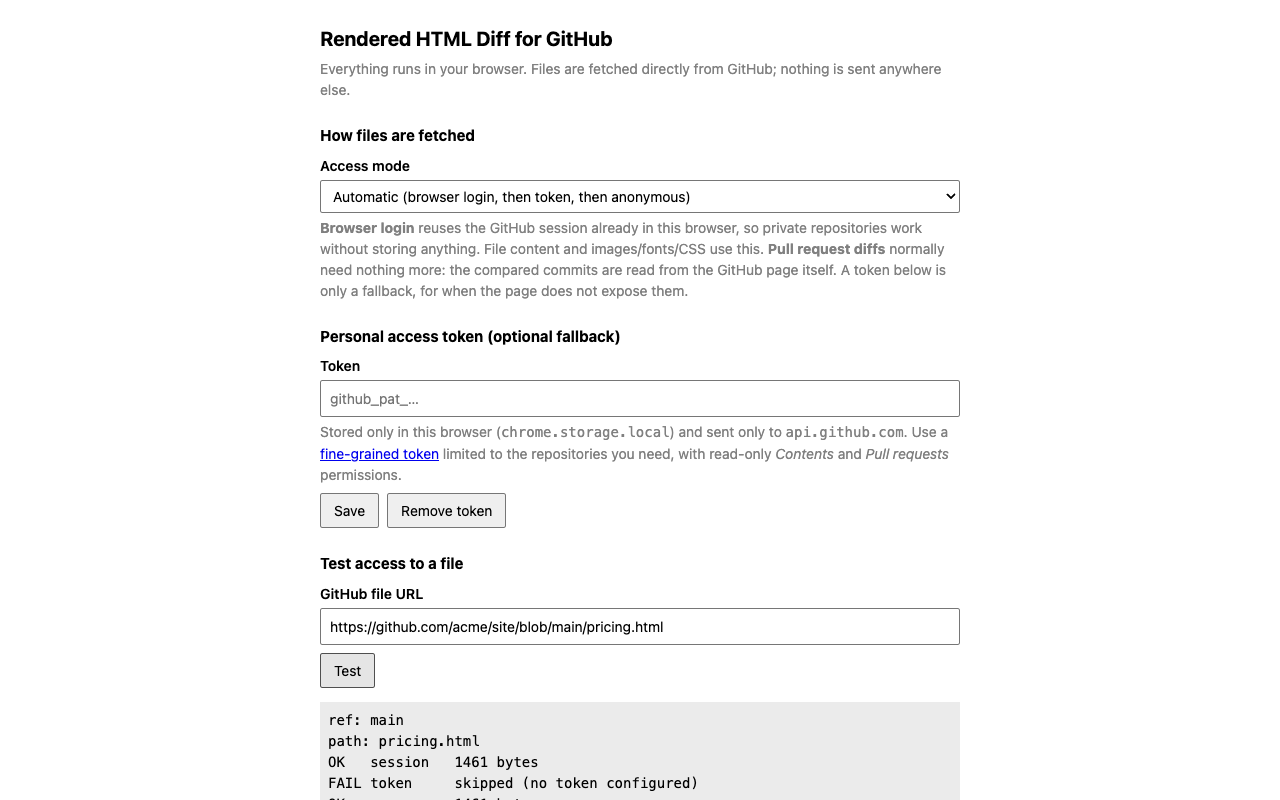
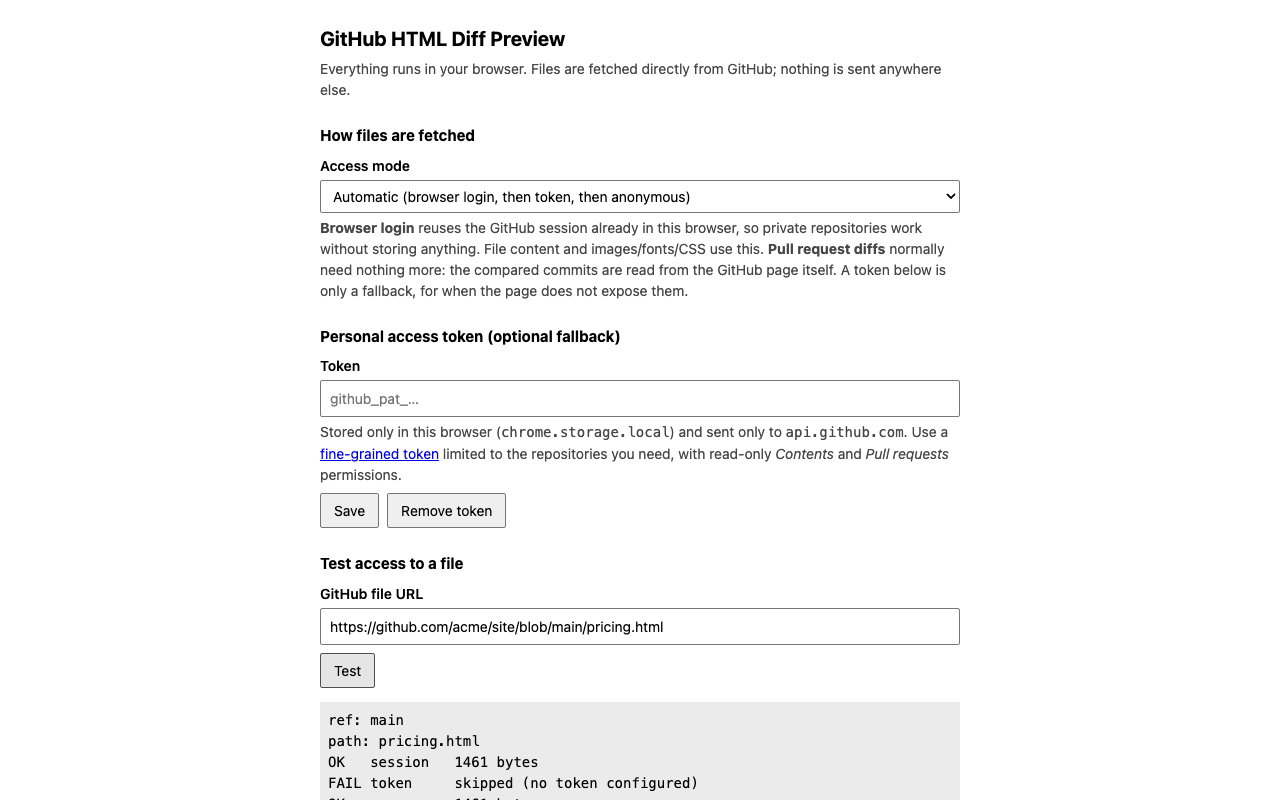
Rename the project to github-html-diff-preview / GitHub HTML Diff Preview
Repository slug, package name, zip names, Firefox add-on id and all links
use github-html-diff-preview; the extension's display name is now
"GitHub HTML Diff Preview" (short name "HTML Diff Preview"). Store listing
notes now cover the name's proximity to existing "GitHub HTML Preview"
listings and the leading "GitHub", with fallback names. Store images and the
compiled issue-helper workflow are regenerated.

diff --git a/static/options/options.html b/static/options/options.html
@@ -3,12 +3,12 @@
 <head>
     <meta charset="utf-8">
     <meta name="viewport" content="width=device-width, initial-scale=1">
-    <title>Rendered HTML Diff for GitHub - Options</title>
+    <title>GitHub HTML Diff Preview - Options</title>
     <link rel="stylesheet" href="options.css">
 </head>
 <body>
     <main>
-        <h1>Rendered HTML Diff for GitHub</h1>
+        <h1>GitHub HTML Diff Preview</h1>
         <p class="lead">Everything runs in your browser. Files are fetched directly from GitHub; nothing is sent anywhere else.</p>
 
         <section>

diff --git a/store/LISTING.md b/store/LISTING.md
@@ -4,9 +4,11 @@ Everything below is ready to paste. Nothing here has been submitted anywhere.
 
 ## Name
 
-**Rendered HTML Diff for GitHub**  (store display name; repository: `github-html-preview`)
+**GitHub HTML Diff Preview**  (store display name; repository: `github-html-diff-preview`)
 
-Why this name: three Chrome Web Store listings already use "GitHub HTML Preview"-style names (dohyeon5626's "Github Html Preview", bauerautomate's "GitHub HTML Preview", thejjw's "GitHub Local HTML Preview"). This name leads with what is unique here, the rendered diff, and "for GitHub" is a descriptive reference (nominative use), not a claim of affiliation. The listing says so explicitly (see disclaimer below). Alternative if the store objects to "GitHub" in the title: **Rendered HTML Diff & Preview** (mention GitHub only in the summary and description).
+Things to weigh before submitting:
+- Three Chrome Web Store listings already use "GitHub HTML Preview"-style names (dohyeon5626's "Github Html Preview", bauerautomate's "GitHub HTML Preview", thejjw's "GitHub Local HTML Preview"). "Diff" is the distinguishing word, so the listing and screenshots should lead with the rendered diff, and the icon and branding are unrelated to those listings.
+- The name begins with "GitHub". The listing carries a non-affiliation disclaimer (see Description). GitHub's brand guidelines and the Chrome Web Store's impersonation policy both discourage product names that imply an official GitHub product; if a reviewer objects, use **HTML Diff Preview for GitHub** (nominative "for GitHub") or **Rendered HTML Diff & Preview**.
 
 ## Summary (max 132 characters)
 
@@ -20,7 +22,7 @@ Developer Tools. Language: English.
 
 ## Description
 
-> Rendered HTML Diff for GitHub shows you what an HTML file actually looks like, right from GitHub, and what a pull request changed in the rendered page, not just in the source.
+> GitHub HTML Diff Preview shows you what an HTML file actually looks like, right from GitHub, and what a pull request changed in the rendered page, not just in the source.
 >
 > **Preview any HTML file**
 > • A Preview button next to "Raw" on .html and .htm files, plus a right-click menu entry and a keyboard shortcut (Alt+Shift+P).
@@ -37,7 +39,7 @@ Developer Tools. Language: English.
 > • Private repositories work through the GitHub login already in your browser; nothing needs to be stored. An optional fine-grained token, kept only on your device, is a fallback if GitHub's page ever stops exposing what the diff needs.
 > • Previewed pages are untrusted, so they render in a sandboxed frame with scripts off. An explicit "Run scripts (untrusted)" switch for single files is available if you want it.
 >
-> Open source (MIT): https://github.com/kaovilai/github-html-preview
+> Open source (MIT): https://github.com/kaovilai/github-html-diff-preview
 >
 > Not affiliated with, endorsed by, or sponsored by GitHub, Inc. "GitHub" is a trademark of GitHub, Inc., used here only to describe what the extension works with.
 
@@ -63,7 +65,7 @@ Developer Tools. Language: English.
 Check only: **Authentication information** (the optional personal access token the user enters; stored locally, sent only to api.github.com). Everything else unchecked. (The page-derived commit hashes, repository names and file paths are processed locally and sent only to GitHub as part of the requests for the files the user asked to preview.)
 Certify: not sold or transferred to third parties; not used for purposes unrelated to the single purpose; not used for creditworthiness/lending.
 
-Privacy policy URL: `https://github.com/kaovilai/github-html-preview/blob/main/PRIVACY.md`
+Privacy policy URL: `https://github.com/kaovilai/github-html-diff-preview/blob/main/PRIVACY.md`
 
 ## Notes for reviewers / test instructions
 
@@ -90,4 +92,4 @@ The screenshots show a made-up "Acme Cloud" page, not third-party content, rende
 
 ## Packages
 
-`npm run zip` writes reproducible `dist/github-html-preview-chrome-<version>.zip` and `dist/github-html-preview-firefox-<version>.zip`. `npm run source-zip` writes the source archive that AMO asks for.
+`npm run zip` writes reproducible `dist/github-html-diff-preview-chrome-<version>.zip` and `dist/github-html-diff-preview-firefox-<version>.zip`. `npm run source-zip` writes the source archive that AMO asks for.

diff --git a/store/PUBLISHING.md b/store/PUBLISHING.md
@@ -22,7 +22,7 @@ Console: https://chrome.google.com/webstore/devconsole
 | Contact email | Must be verified from the Account page. |
 | Trader status | EU consumer-law declaration. A free, open-source extension from an individual is normally declared **non-trader**; the other listings found during research did the same. |
 | New-publisher limit | New publishers can have at most two published extensions until they request an increase. |
-| Upload | `dist/github-html-preview-chrome-<version>.zip` (Add new item, Choose file). |
+| Upload | `dist/github-html-diff-preview-chrome-<version>.zip` (Add new item, Choose file). |
 | Listing / Privacy | Paste from `store/LISTING.md`; upload `store/generated/*.png` (screenshots 1280x800, small promo 440x280). |
 | Review time | Usually a few days, up to a few weeks; new developers, new extensions and host permissions get a closer look. After approval you have 30 days to publish if you choose deferred publishing. |
 | Cost | Registration fee only. |
@@ -46,9 +46,9 @@ Console: Partner Center, https://partner.microsoft.com/dashboard/microsoftedge/o
 Console: https://addons.mozilla.org/developers/
 
 - Free Mozilla account; no fee. Choose "On this site" for a listed add-on (or "On your own" for a signed self-hosted `.xpi`).
-- Upload `dist/github-html-preview-firefox-<version>.zip`.
+- Upload `dist/github-html-diff-preview-firefox-<version>.zip`.
 - **Source code upload is required** because the extension is bundled with esbuild: attach `npm run source-zip` output and these build instructions: *Node.js 22+, `npm ci`, `npm run build:firefox`; the output is `dist/firefox`.*
-- The Firefox manifest already carries an add-on ID (`github-html-preview@kaovilai.github.io`) and the required data-collection declaration (`none`); `web-ext lint` reports zero warnings.
+- The Firefox manifest already carries an add-on ID (`github-html-diff-preview@kaovilai.github.io`) and the required data-collection declaration (`none`); `web-ext lint` reports zero warnings.
 - Not yet covered by automated browser tests; do a manual pass (`about:debugging`, Load Temporary Add-on) on a public file and a public PR before submitting. The scripts toggle is absent in Firefox by design.
 - Review is partly automated and usually quick for listed add-ons, but can take longer when manual review is triggered.
 

diff --git a/PRIVACY.md b/PRIVACY.md
@@ -1,6 +1,6 @@
 # Privacy policy
 
-*Rendered HTML Diff for GitHub* ("the extension") runs entirely in your browser. There is no server operated by the extension's author.
+*GitHub HTML Diff Preview* ("the extension") runs entirely in your browser. There is no server operated by the extension's author.
 
 ## What the extension does with data
 
@@ -22,6 +22,6 @@ Previews render untrusted repository HTML in a sandboxed frame with scripts disa
 
 ## Contact
 
-Questions or concerns: open an issue at https://github.com/kaovilai/github-html-preview/issues.
+Questions or concerns: open an issue at https://github.com/kaovilai/github-html-diff-preview/issues.
 
 *Last updated: 2026-10-16.*

diff --git a/README.md b/README.md
@@ -1,4 +1,4 @@
-# Rendered HTML Diff for GitHub
+# GitHub HTML Diff Preview
 
 A browser extension that previews HTML files on GitHub and shows **rendered before/after diffs of HTML files in pull requests**, entirely locally.
 
@@ -32,8 +32,8 @@ A browser extension that previews HTML files on GitHub and shows **rendered befo
 Not yet published to any store. To try it:
 
 ```sh
-git clone https://github.com/kaovilai/github-html-preview.git
-cd github-html-preview
+git clone https://github.com/kaovilai/github-html-diff-preview.git
+cd github-html-diff-preview
 npm ci
 npm run build
 ```

diff --git a/.github/workflows/issue-responder.md b/.github/workflows/issue-responder.md
@@ -59,7 +59,7 @@ concurrency:
   job-discriminator: ${{ github.event.issue.number || github.event.inputs.issue_number || github.run_id }}
 ---
 
-# Issue helper for github-html-preview
+# Issue helper for github-html-diff-preview
 
 You help the people who use this browser extension (it previews HTML files and shows rendered HTML diffs on GitHub, entirely locally). The repository is a public project and its reporters are strangers, so you act as a careful, friendly first responder.
 
